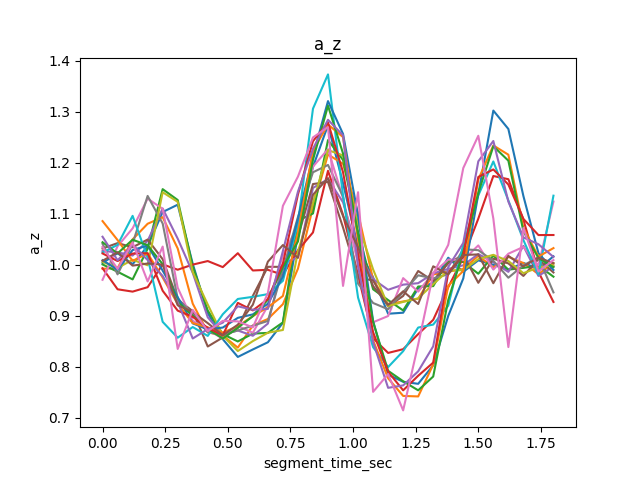
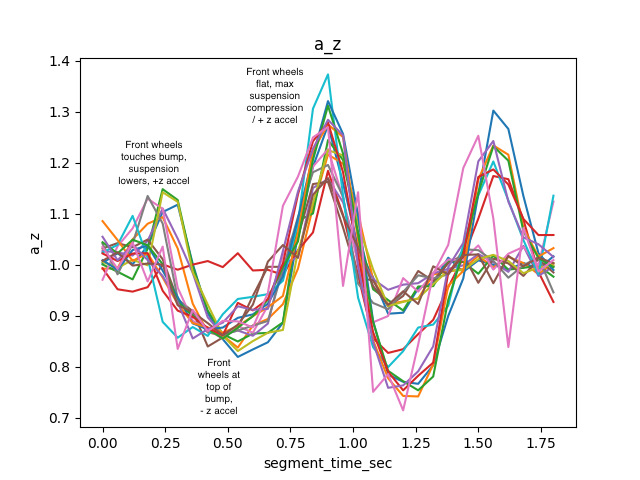
test new branch

Changed region(s): [[0.375, 0.125, 0.4688, 0.2812], [0.1875, 0.2812, 0.2812, 0.4062], [0.3125, 0.75, 0.375, 0.875]]

diff --git a/classifier/data_cleaning/scripts/hard_accel_decel.py b/classifier/data_cleaning/scripts/hard_accel_decel.py
@@ -14,7 +14,7 @@ def plot_all_attributes(attributes, accel, decel, clean_accel_path, clean_decel_
         plt.title(attribute)
         fig.canvas.manager.set_window_title(attribute)
         plt.grid(True)
-        plt.savefig(f"{clean_decel_path}/{attribute}.png")
+        plt.savefig(f"{clean_decel_path}/{attribute}_new.png")
         plt.close()
 
         fig = plt.figure(figsize=(14, 5))
@@ -25,7 +25,7 @@ def plot_all_attributes(attributes, accel, decel, clean_accel_path, clean_decel_
         plt.title(attribute)
         fig.canvas.manager.set_window_title(attribute)
         plt.grid(True)
-        plt.savefig(f"{clean_accel_path}/{attribute}.png")
+        plt.savefig(f"{clean_accel_path}/{attribute}_new.png")
         plt.close()
 
 
@@ -43,6 +43,7 @@ def clean(df, flag):
 
     attributes = ["a_x", "a_y", "a_z", "dps_x", "dps_y", "dps_z"]
 
+    #denoise/smooth with rolling average
     df["a_x_smooth"] = df["a_x"].rolling(window=5, min_periods=1, center=True).mean()
 
     decel_peaks = find_peaks(df["a_x_smooth"], height=0.3, distance=100)
@@ -77,6 +78,8 @@ def clean(df, flag):
         while df.iloc[left]["a_x_smooth"] <= 0.05 and left > 0:
             cur = left
             left -= 1
+
+            #check for time gap from restarting data collection python script (see a_x_new.png)
             if (df.iloc[cur]["time_sec"] - df.iloc[left]["time_sec"]) > 0.5:
                 left += 1
                 break
@@ -100,7 +103,7 @@ def clean(df, flag):
     decel = pd.concat(decel_segments, ignore_index=True)
     decel["target"] = "hard_decel"
     decel = decel.drop(columns=["a_x_smooth"])
-    decel.to_csv(f"{clean_decel_path}/hard_decel.csv")
+    #decel.to_csv(f"{clean_decel_path}/hard_decel.csv")
 
     accel_segments = []
     for segment_id, (start, end) in enumerate(accel_ranges):
@@ -115,6 +118,6 @@ def clean(df, flag):
     accel = pd.concat(accel_segments, ignore_index=True)
     accel["target"] = "hard_accel"
     accel = accel.drop(columns=["a_x_smooth"])
-    accel.to_csv(f"{clean_accel_path}/hard_accel.csv")
+    #accel.to_csv(f"{clean_accel_path}/hard_accel.csv")
 
     plot_all_attributes(attributes, accel, decel, clean_accel_path, clean_decel_path)

diff --git a/classifier/data_cleaning/clean_train_data.py b/classifier/data_cleaning/clean_train_data.py
@@ -17,13 +17,13 @@ PIPELINE = {
 motions = list(PIPELINE)
 
 
-for motion in motions:
-    train_data_raw_path = f"../drive_data/raw/train/{motion}"
-    df = pd.read_csv(f"{train_data_raw_path}/{motion}.csv")
+# for motion in motions:
+#     train_data_raw_path = f"../drive_data/raw/train/{motion}"
+#     df = pd.read_csv(f"{train_data_raw_path}/{motion}.csv")
 
-    train_data_clean_path = f"../drive_data/clean/train/{motion}/"
-    print(f"Cleaning {motion}")
-    PIPELINE[motion].clean(df, train_data_clean_path)
+#     train_data_clean_path = f"../drive_data/clean/train/{motion}/"
+#     print(f"Cleaning {motion}")
+#     PIPELINE[motion].clean(df, train_data_clean_path)
 
 flag = "train"
 #hard_accel_decel
@@ -32,8 +32,8 @@ path = "../drive_data/raw/train/hard_accel_decel/hard_accel_decel.csv"
 df = pd.read_csv(path)
 hard_accel_decel.clean(df, flag)
 
-#smooth_accel_decel
-print(f"Cleaning smooth_accel_decel")
-path = "../drive_data/raw/train/smooth_accel_decel/smooth_accel_decel.csv"
-df = pd.read_csv(path)
-smooth_accel_decel.clean(df, flag)
+# #smooth_accel_decel
+# print(f"Cleaning smooth_accel_decel")
+# path = "../drive_data/raw/train/smooth_accel_decel/smooth_accel_decel.csv"
+# df = pd.read_csv(path)
+# smooth_accel_decel.clean(df, flag)

diff --git a/classifier/data_cleaning/scripts/plot_raw.py b/classifier/data_cleaning/scripts/plot_raw.py
@@ -1,0 +1,25 @@
+import pandas as pd
+import matplotlib.pyplot as plt
+import numpy as np
+from scipy.signal import find_peaks
+
+
+def plot_all_attributes(df, path):
+        fig = plt.figure(figsize=(20, 5))
+        ax = plt.gca()
+        x = df.iloc[0:1000]["timestamp"]/1000
+        y = df.iloc[0:1000]["a_x"]
+        ax.plot(x, y)
+        ax.set_xticks(np.arange(x.min(), x.max() + 1, 5))
+        ax.tick_params(axis="x", labelsize=8, labelrotation=45)
+        plt.setp(ax.get_xticklabels(), ha="right")
+        plt.xlabel("time_sec")
+        plt.ylabel("a_x")
+        plt.title("a_x")
+        fig.canvas.manager.set_window_title("a_x")
+        plt.grid(True)
+        plt.savefig(path)
+        plt.close()
+
+df = pd.read_csv("../../drive_data/raw/train/hard_accel_decel/hard_accel_decel.csv")
+plot_all_attributes(df, "../../drive_data/raw/train/hard_accel_decel/a_x.png")

diff --git a/classifier/data_cleaning/scripts/bumps.py b/classifier/data_cleaning/scripts/bumps.py
@@ -22,9 +22,11 @@ def clean(df, train_data_clean_path):
     df["time_sec"] = (df[time_col] - df[time_col].iloc[0]) / 1000
     df = df.copy()
 
+    #I gathered data over a set of double bumps, hence the increased distance param to capture a single bump from the pair
     peaks = find_peaks(df["a_z"], height=1.15, distance=50)
     peak_indices = peaks[0]
 
+    #trial and error for peak offset range until I captured single bump (e.g going over front and back wheels) with 
     ranges = [(idx - 15, idx + 15) for idx in peak_indices]
 
     segments = []

diff --git a/classifier/data_cleaning/scripts/clockwise_circle.py b/classifier/data_cleaning/scripts/clockwise_circle.py
@@ -18,7 +18,6 @@ def plot_all_attributes(attributes, df, train_data_clean_path):
 def clean(df, train_data_clean_path):
     time_col = "timestamp"
     df["time_sec"] = (df[time_col] - df[time_col].iloc[0]) / 1000
-    # df = df[(df["time_sec"] >= 2) & (df["time_sec"] <= 115)]
     df.to_csv(f"{train_data_clean_path}/clockwise_circle.csv")
 
     attributes = ["a_x", "a_y", "a_z", "dps_x", "dps_y", "dps_z"]

diff --git a/classifier/data_cleaning/clean_test_data.py b/classifier/data_cleaning/clean_test_data.py
@@ -16,6 +16,7 @@ PIPELINE = {
 
 motions = list(PIPELINE)
 
+#read each raw CSV into dataframe and call respective clean
 for motion in motions:
     test_data_raw_path = f"../drive_data/raw/test/{motion}"
     df = pd.read_csv(f"{test_data_raw_path}/{motion}.csv")

diff --git a/classifier/data_cleaning/scripts/left_turn.py b/classifier/data_cleaning/scripts/left_turn.py
@@ -23,6 +23,7 @@ def clean(df, train_data_clean_path):
     peaks = find_peaks(df["dps_z"], height=10, distance=50)
     peak_indices = peaks[0]
 
+
     ranges = []
     for peak_index in peak_indices:
 

diff --git a/Core/Src/sensors.c b/Core/Src/sensors.c
@@ -306,6 +306,7 @@ bool LPS22DF_Read_Ready()
 LSM6DSV16X_Sample *LSM6DSV16X_ReadData()
 {
 
+    int test = 0;
     uint8_t AccelDataH;
     uint8_t AccelDataL;
     uint8_t GyroDataH;
